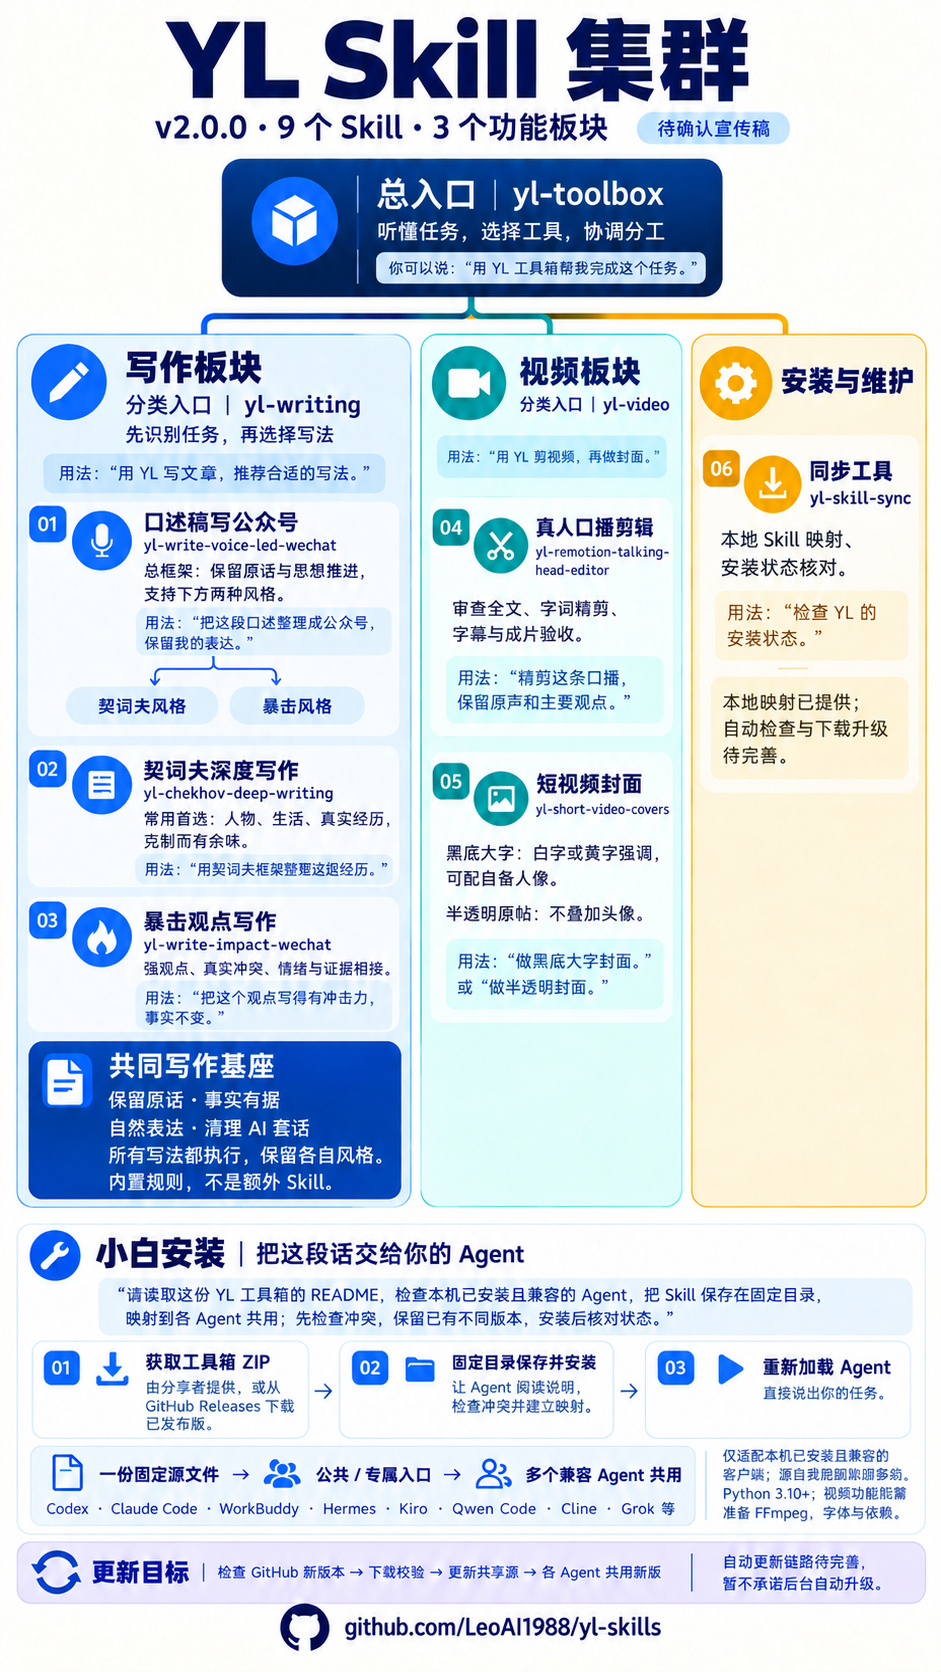
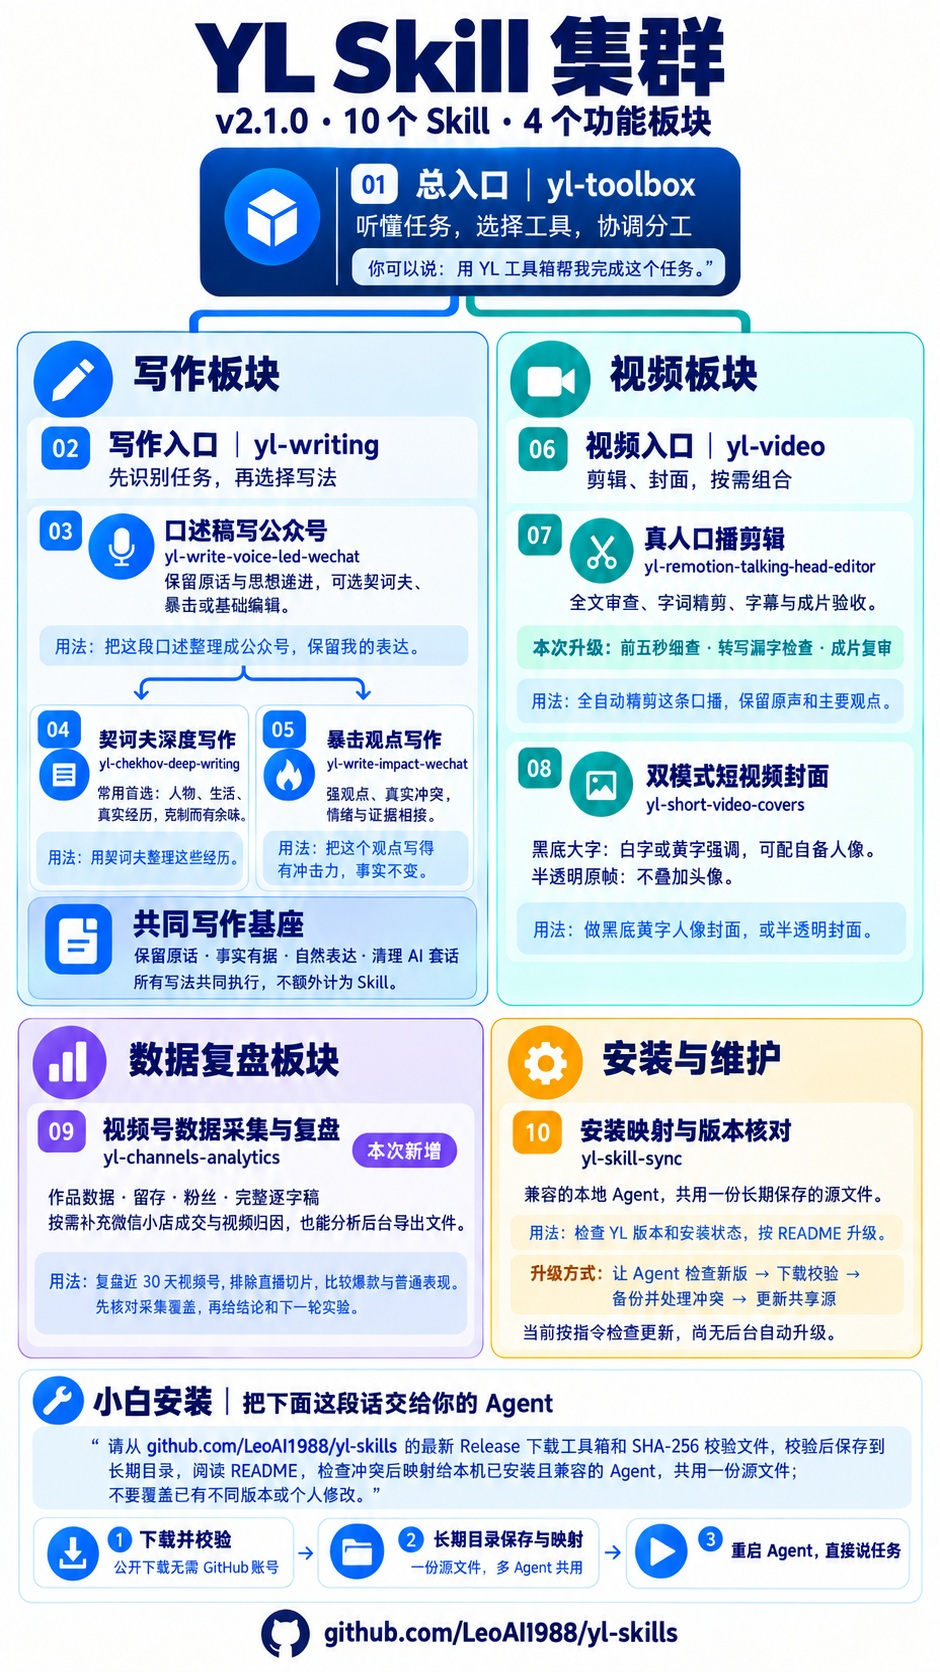
Release v2.1.1 with current toolbox poster

diff --git a/README.md b/README.md
@@ -1,6 +1,6 @@
 # yl Skill 集群
 
-把经过实际使用的写作、剪辑和封面工具整理成可独立安装的公开工具箱。当前版本 **2.1.0**（10 个 Skill）。总入口选工具，分类入口选风格，具体 Skill 完成工作。
+把经过实际使用的写作、剪辑和封面工具整理成可独立安装的公开工具箱。当前版本 **2.1.1**（10 个 Skill）。总入口选工具，分类入口选风格，具体 Skill 完成工作。
 
 ## 日常版与公开版
 
@@ -12,12 +12,9 @@
 
 当前结构：`yl-toolbox` → 写作（入口＋口述框架＋契诃夫＋暴击）、视频（入口＋口播剪辑＋双模式封面）、数据复盘（视频号／按需小店）、安装维护。
 
-<details>
-<summary>查看已确认的 2.0.0 历史宣传图（9 项，不含新增数据复盘）</summary>
+![YL Skill 集群：10 个 Skill、4 个功能板块](YL-Skill集群.jpg)
 
-![YL Skill 集群历史图](YL-Skill集群.jpg)
-
-</details>
+海报标注 v2.1.0 能力架构；v2.1.1 将这张新版海报加入仓库和安装包，Skill 能力不变。
 
 ## 有哪些工具
 
@@ -91,10 +88,12 @@ python install.py --target "你的 Agent 的 skills 目录"
 
 分享根目录 `yl-toolbox-cluster.zip`，或单独的已审核 Skill 目录。固定名 ZIP 与带版本 ZIP 字节相同，并附 SHA-256。`cluster.json` 验证文件完整性，不是作者身份签名。
 
-公开仓库为 [LeoAI1988/yl-skills](https://github.com/LeoAI1988/yl-skills)。通过 [最新 Release](https://github.com/LeoAI1988/yl-skills/releases/latest) 获取公开发行附件；已确认宣传图随 ZIP 分发，展示 2.0.0 的九项工具架构；2.0.1 增加图示，2.0.2 增加 GitHub 下载安装说明；2.1.0 新增数据复盘及剪辑检查，最新能力以清单为准。项目不默认创建定时任务。
+公开仓库为 [LeoAI1988/yl-skills](https://github.com/LeoAI1988/yl-skills)。通过 [最新 Release](https://github.com/LeoAI1988/yl-skills/releases/latest) 获取公开发行附件；新版十项工具宣传图随 ZIP 分发；2.1.0 新增数据复盘及剪辑检查，2.1.1 同步新版海报，最新能力以清单为准。项目不默认创建定时任务。
 
 从旧版迁移：`yl-kazik-writing`、`yl-human-writing` 不再发行。备份并检查安装者修改后，可由安装者移出这两个旧入口；安装器不会自动删除它们，也不会覆盖不同版本。原来请求自然润色的任务可交给 `yl-writing`，口述成文交给 `yl-write-voice-led-wechat`。日常个人原版不受本次整理影响。
 
 最新英文名、中文名、简介和用法见 [Skill 清单](Skill清单_v2.1.0.md)。
 
 本轮逐项比对与采用／排除说明见 [2.1.0 对齐报告](版本对齐_v2.1.0.md)。使用新入口可说：“用 yl-channels-analytics 复盘我的视频号近 30 天，排除直播切片，先核对采集覆盖；有带货数据再核对成交归因。”
+
+当前数据复盘含逐字稿获取、保存、数据关联与分析，尚未包含完整的文稿入库、蒸馏、知识原子及表达资产管理流程。

diff --git a/PRD.md b/PRD.md
@@ -1,6 +1,6 @@
 # yl Skill 集群：公开发行版设计
 
-版本：2.1.0 · 状态：审核后公开发行 · 日期：2026-09-21
+版本：2.1.1 · 状态：审核后公开发行 · 日期：2026-09-22
 
 ## 目标与两份版本的关系
 
@@ -55,6 +55,6 @@ Human Writing 与卡兹克不再作为独立工具；其中已审查的共通方
 
 ## 本次范围与验收
 
-本次 2.1.0 对齐现有成员的日常方法，新增独立视频号数据复盘入口，共 10 个 Skill；审核后同步已授权的公开 GitHub 仓库和发行附件。保留已确认历史宣传图，并标注其版本，当前能力以新清单为准。自动更新链路待完善，不视为已完成能力。
+本次 2.1.0 对齐现有成员的日常方法，新增独立视频号数据复盘入口，共 10 个 Skill；审核后同步已授权的公开 GitHub 仓库和发行附件。v2.1.1 同步十项工具新版宣传图，Skill 能力保持 v2.1.0，当前能力以清单为准。自动更新链路待完善，不视为已完成能力。
 
 验收对象包括：入口可找到实际成员；风格与封面模式可选择；相对引用有效；公开成员保留完整核心方法；无未解释敏感信息；第三方许可保留；比对能识别来源变化；安装预检不写入；相同版本幂等；不同版本拒绝覆盖；ZIP 解压文件逐字节一致。结构测试不代表实际文章质量或完整视频已验证。

diff --git a/Skill清单_v2.1.0.md b/Skill清单_v2.1.0.md
@@ -48,4 +48,4 @@ flowchart TD
 
 写作原稿、真实经历、账号、媒体、模型和凭据由安装者提供；工具不会自带作者的私人资料。数据复盘不自动发布或修改后台，不采集不必要的客户联系方式。脚本检查不能替代听审、语义复核或真实后台验收。
 
-整包为多许可源码公开工具箱。剪辑和写作中的 DBS 衍生方法仍受 CC BY-NC 4.0 非商业限制，详见 [来源与许可](THIRD_PARTY_NOTICES.md)。旧宣传图展示 v2.0.0 的 9 项架构，本清单是当前能力准本。
+整包为多许可源码公开工具箱。剪辑和写作中的 DBS 衍生方法仍受 CC BY-NC 4.0 非商业限制，详见 [来源与许可](THIRD_PARTY_NOTICES.md)。v2.1.1 包内海报已展示本清单的 10 项架构；本清单继续作为能力准本。

diff --git a/yl集群_审核说明.md b/yl集群_审核说明.md
@@ -76,3 +76,7 @@
 ## 2.1.0 审核范围
 
 逐文件复核本轮改动及新增数据复盘成员，私人账号、案例数字、订单客户资料、绝对路径、认证信息和仓库依赖未带入。既有未改文件沿用已登记审查证据。新脚本采用合成数据回归与 CLI 检查；未登录实际后台，未完成真人视频端到端试剪，因此不声称通过真实业务验收。历史宣传图不改像素，并在 README 标明版本。
+
+## 2.1.1 图片与发行同步
+
+新版十项工具海报已目视检查：工具名称、层级、安装说明、更新限制及公开仓库地址与当前能力相符，无私人身份、案例或凭据。替换旧图并更新引用；本次不增加 Skill 功能，重新核对发行哈希和安装包。

diff --git a/CHANGELOG.md b/CHANGELOG.md
@@ -1,5 +1,11 @@
 # 更新记录
 
+## 2.1.1 · 2026-09-22
+
+- 新版十项工具／四个板块海报加入 README、仓库和发行 ZIP，替换旧九项图。
+- 保持 v2.1.0 的 Skill 能力，明确数据复盘尚不包含完整入库、蒸馏及知识原子流程。
+- 重建审核哈希与发行附件，旧版发行包保持不变。
+
 ## 2.1.0 · 2026-09-21
 
 - 新增 `yl-channels-analytics`：合并 Codex 平台分析和 WorkBuddy 两份视频号／小店采集流程，含采集覆盖、逐字稿、留存粉丝、成交核对及离线播放统计。
